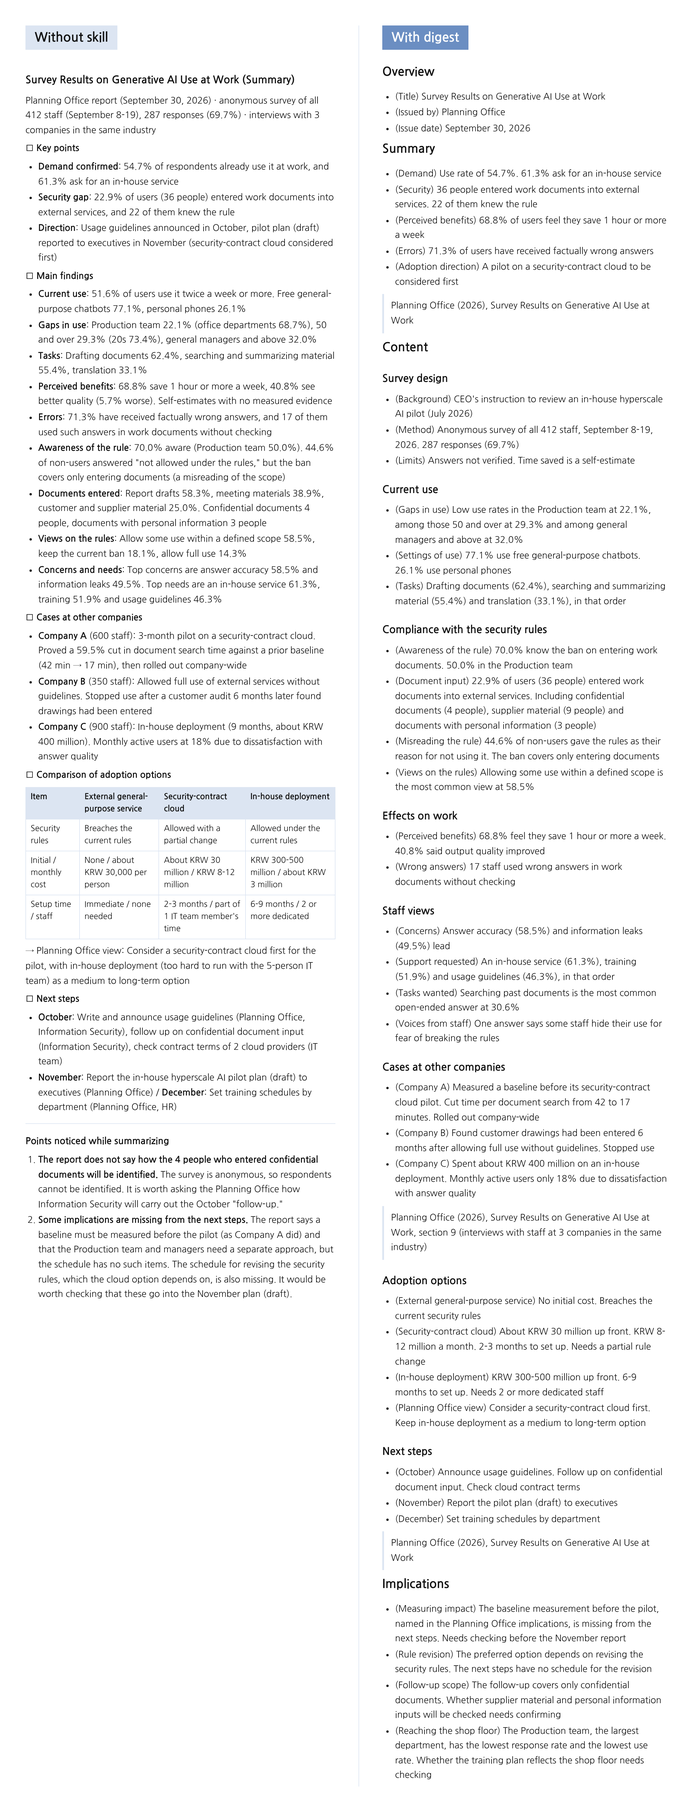
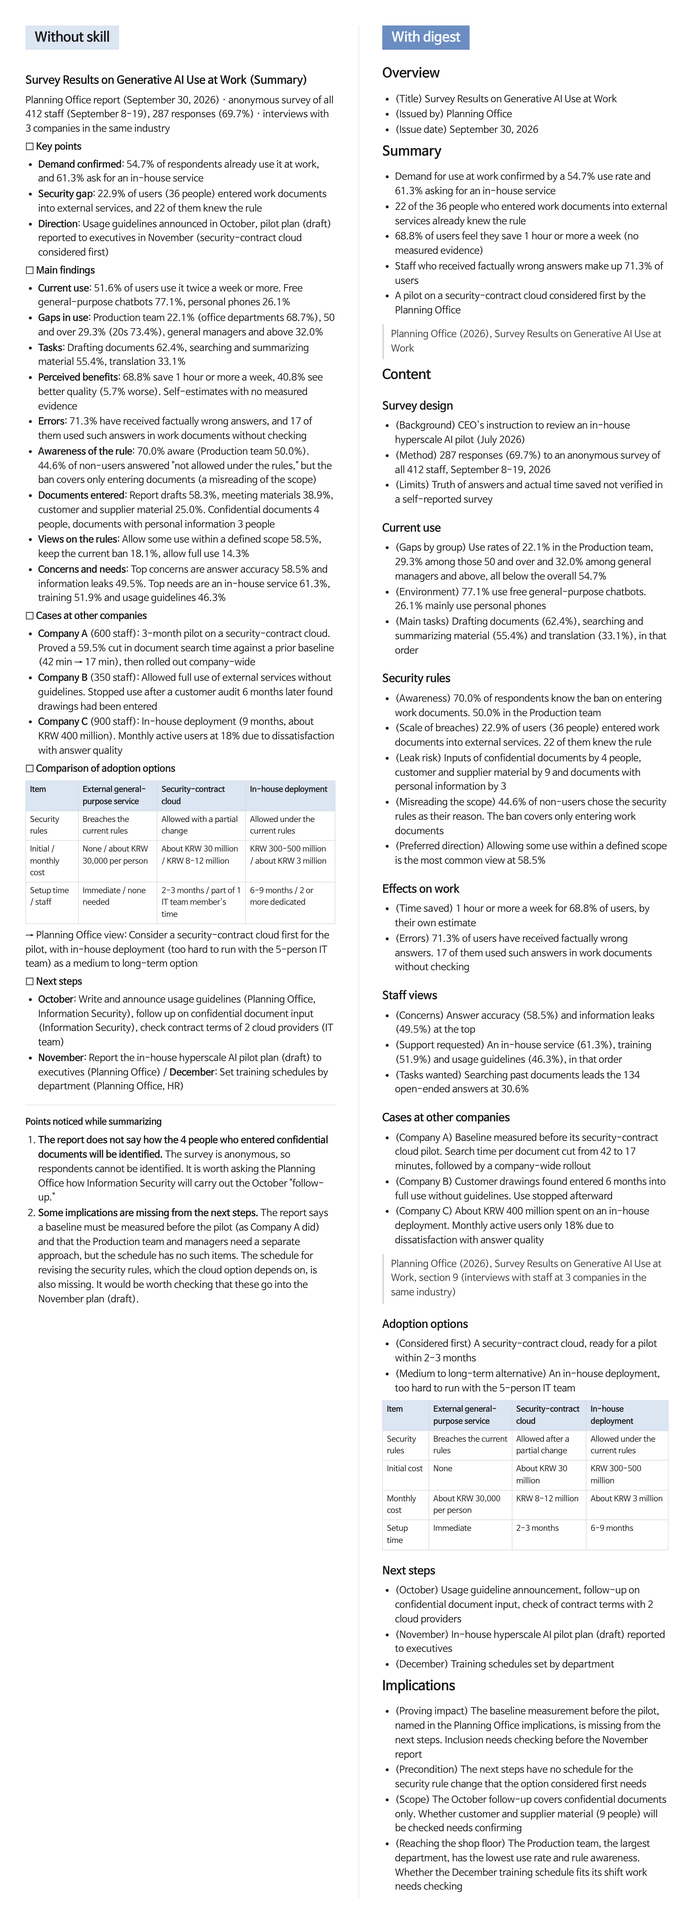
Put each speaker under one header in digest minutes and refresh the demo (#66)
- Add a header line to the meeting minutes template and a header column to the grouping table: speaker name for speaker grouping, used as needed for topic and time grouping.
- Change the speaker row labels to topic (level 1) and keyword (level 2) so that the speaker name appears once in its header.
- Add a minutes rule against duplicating header information in the labels and sentences below, and replace the speaker-only pre-delivery check item with one that covers every grouping.
- Align the Korean and English demo write-ups with the current writing style and re-render both compare.png images.
- Rebuild digest-ko.skill and digest-en.skill with the same packaging attributes and update SHA256SUMS.txt.

Claude-Session: https://claude.ai/code/session_019cp91uYdiyEsiZqNAUSQxG

Changed region(s): [[0.0312, 0.0, 0.5, 0.7162], [0.5312, 0.0, 0.9688, 0.9965]]

diff --git a/skills/digest/demo/en/after.md b/skills/digest/demo/en/after.md
@@ -4,63 +4,66 @@
 - (Issue date) September 30, 2026
 
 # Summary
-- (Demand) Use rate of 54.7%. 61.3% ask for an in-house service
-- (Security) 36 people entered work documents into external services. 22 of them knew the rule
-- (Perceived benefits) 68.8% of users feel they save 1 hour or more a week
-- (Errors) 71.3% of users have received factually wrong answers
-- (Adoption direction) A pilot on a security-contract cloud to be considered first
+- Demand for use at work confirmed by a 54.7% use rate and 61.3% asking for an in-house service
+- 22 of the 36 people who entered work documents into external services already knew the rule
+- 68.8% of users feel they save 1 hour or more a week (no measured evidence)
+- Staff who received factually wrong answers make up 71.3% of users
+- A pilot on a security-contract cloud considered first by the Planning Office
 
 > Planning Office (2026), Survey Results on Generative AI Use at Work
 
 # Content
 ## Survey design
 - (Background) CEO's instruction to review an in-house hyperscale AI pilot (July 2026)
-- (Method) Anonymous survey of all 412 staff, September 8-19, 2026. 287 responses (69.7%)
-- (Limits) Answers not verified. Time saved is a self-estimate
+- (Method) 287 responses (69.7%) to an anonymous survey of all 412 staff, September 8-19, 2026
+- (Limits) Truth of answers and actual time saved not verified in a self-reported survey
 
 ## Current use
-- (Gaps in use) Low use rates in the Production team at 22.1%, among those 50 and over at 29.3% and among general managers and above at 32.0%
-- (Settings of use) 77.1% use free general-purpose chatbots. 26.1% use personal phones
-- (Tasks) Drafting documents (62.4%), searching and summarizing material (55.4%) and translation (33.1%), in that order
+- (Gaps by group) Use rates of 22.1% in the Production team, 29.3% among those 50 and over and 32.0% among general managers and above, all below the overall 54.7%
+- (Environment) 77.1% use free general-purpose chatbots. 26.1% mainly use personal phones
+- (Main tasks) Drafting documents (62.4%), searching and summarizing material (55.4%) and translation (33.1%), in that order
 
-## Compliance with the security rules
-- (Awareness of the rule) 70.0% know the ban on entering work documents. 50.0% in the Production team
-- (Document input) 22.9% of users (36 people) entered work documents into external services. Including confidential documents (4 people), supplier material (9 people) and documents with personal information (3 people)
-- (Misreading the rule) 44.6% of non-users gave the rules as their reason for not using it. The ban covers only entering documents
-- (Views on the rules) Allowing some use within a defined scope is the most common view at 58.5%
+## Security rules
+- (Awareness) 70.0% of respondents know the ban on entering work documents. 50.0% in the Production team
+- (Scale of breaches) 22.9% of users (36 people) entered work documents into external services. 22 of them knew the rule
+- (Leak risk) Inputs of confidential documents by 4 people, customer and supplier material by 9 and documents with personal information by 3
+- (Misreading the scope) 44.6% of non-users chose the security rules as their reason. The ban covers only entering work documents
+- (Preferred direction) Allowing some use within a defined scope is the most common view at 58.5%
 
 ## Effects on work
-- (Perceived benefits) 68.8% feel they save 1 hour or more a week. 40.8% said output quality improved
-- (Wrong answers) 17 staff used wrong answers in work documents without checking
+- (Time saved) 1 hour or more a week for 68.8% of users, by their own estimate
+- (Errors) 71.3% of users have received factually wrong answers. 17 of them used such answers in work documents without checking
 
 ## Staff views
-- (Concerns) Answer accuracy (58.5%) and information leaks (49.5%) lead
+- (Concerns) Answer accuracy (58.5%) and information leaks (49.5%) at the top
 - (Support requested) An in-house service (61.3%), training (51.9%) and usage guidelines (46.3%), in that order
-- (Tasks wanted) Searching past documents is the most common open-ended answer at 30.6%
-- (Voices from staff) One answer says some staff hide their use for fear of breaking the rules
+- (Tasks wanted) Searching past documents leads the 134 open-ended answers at 30.6%
 
 ## Cases at other companies
-- (Company A) Measured a baseline before its security-contract cloud pilot. Cut time per document search from 42 to 17 minutes. Rolled out company-wide
-- (Company B) Found customer drawings had been entered 6 months after allowing full use without guidelines. Stopped use
-- (Company C) Spent about KRW 400 million on an in-house deployment. Monthly active users only 18% due to dissatisfaction with answer quality
+- (Company A) Baseline measured before its security-contract cloud pilot. Search time per document cut from 42 to 17 minutes, followed by a company-wide rollout
+- (Company B) Customer drawings found entered 6 months into full use without guidelines. Use stopped afterward
+- (Company C) About KRW 400 million spent on an in-house deployment. Monthly active users only 18% due to dissatisfaction with answer quality
 
 > Planning Office (2026), Survey Results on Generative AI Use at Work, section 9 (interviews with staff at 3 companies in the same industry)
 
 ## Adoption options
-- (External general-purpose service) No initial cost. Breaches the current security rules
-- (Security-contract cloud) About KRW 30 million up front. KRW 8-12 million a month. 2-3 months to set up. Needs a partial rule change
-- (In-house deployment) KRW 300-500 million up front. 6-9 months to set up. Needs 2 or more dedicated staff
-- (Planning Office view) Consider a security-contract cloud first. Keep in-house deployment as a medium to long-term option
+- (Considered first) A security-contract cloud, ready for a pilot within 2-3 months
+- (Medium to long-term alternative) An in-house deployment, too hard to run with the 5-person IT team
+
+| Item | External general-purpose service | Security-contract cloud | In-house deployment |
+|---|---|---|---|
+| Security rules | Breaches the current rules | Allowed after a partial change | Allowed under the current rules |
+| Initial cost | None | About KRW 30 million | KRW 300-500 million |
+| Monthly cost | About KRW 30,000 per person | KRW 8-12 million | About KRW 3 million |
+| Setup time | Immediate | 2-3 months | 6-9 months |
 
 ## Next steps
-- (October) Announce usage guidelines. Follow up on confidential document input. Check cloud contract terms
-- (November) Report the pilot plan (draft) to executives
-- (December) Set training schedules by department
-
-> Planning Office (2026), Survey Results on Generative AI Use at Work
+- (October) Usage guideline announcement, follow-up on confidential document input, check of contract terms with 2 cloud providers
+- (November) In-house hyperscale AI pilot plan (draft) reported to executives
+- (December) Training schedules set by department
 
 # Implications
-- (Measuring impact) The baseline measurement before the pilot, named in the Planning Office implications, is missing from the next steps. Needs checking before the November report
-- (Rule revision) The preferred option depends on revising the security rules. The next steps have no schedule for the revision
-- (Follow-up scope) The follow-up covers only confidential documents. Whether supplier material and personal information inputs will be checked needs confirming
-- (Reaching the shop floor) The Production team, the largest department, has the lowest response rate and the lowest use rate. Whether the training plan reflects the shop floor needs checking
+- (Proving impact) The baseline measurement before the pilot, named in the Planning Office implications, is missing from the next steps. Inclusion needs checking before the November report
+- (Precondition) The next steps have no schedule for the security rule change that the option considered first needs
+- (Scope) The October follow-up covers confidential documents only. Whether customer and supplier material (9 people) will be checked needs confirming
+- (Reaching the shop floor) The Production team, the largest department, has the lowest use rate and rule awareness. Whether the December training schedule fits its shift work needs checking

diff --git a/skills/digest/demo/ko/after.md b/skills/digest/demo/ko/after.md
@@ -4,63 +4,66 @@
 - (발행일) 2026년 9월 30일
 
 # 요약
-- (수요) 사용 경험률 54.7%. 사내 전용 서비스 요구 61.3%
-- (보안) 업무 문서 외부 입력 36명. 이 중 22명은 규정을 알고도 입력
-- (체감 효과) 사용 경험자의 68.8%가 주 1시간 이상 절감 체감
-- (오류) 사용 경험자의 71.3%가 사실과 다른 답변 경험
-- (도입 방향) 보안 계약형 클라우드 방식의 시범 도입 우선 검토
+- 사용 경험률 54.7% 및 사내 전용 서비스 요구 61.3%로 업무 활용 수요 확인
+- 업무 문서를 외부 서비스에 입력한 36명 중 22명은 규정을 알고 있던 직원
+- 사용 경험자의 68.8%가 주 1시간 이상 업무 시간 절감 체감(실측 근거 없음)
+- 사실과 다른 답변을 받은 직원은 사용 경험자의 71.3%
+- 기획실은 보안 계약형 클라우드 방식의 시범 도입을 우선 검토
 
 > 기획실(2026), 생성형 AI 업무 활용 실태 조사 결과 보고
 
 # 내용
 ## 조사 설계
 - (배경) 대표이사의 사내 초거대AI 시범 도입 검토 지시(2026년 7월)
-- (방법) 2026년 9월 8일-19일 전 직원 412명 대상 무기명 설문. 287명 응답(69.7%)
-- (한계) 응답의 사실 여부 미확인. 절감 시간은 본인 체감치
+- (방법) 2026년 9월 8일-19일 전 직원 412명 대상 무기명 설문에 287명 응답(69.7%)
+- (한계) 자기 기입식 조사로 응답 내용의 사실 여부 및 절감 시간의 실측값 미확인
 
-## 사용 실태
-- (사용 격차) 생산팀 22.1%, 50대 이상 29.3%, 부장 이상 32.0%로 사용 경험률 저조
-- (사용 환경) 무료 범용 챗봇 사용 77.1%. 개인 휴대폰 사용 26.1%
-- (활용 업무) 문서 초안 작성(62.4%), 자료 검색 및 요약(55.4%), 번역(33.1%) 순
+## 활용 현황
+- (집단별 격차) 사용 경험률은 생산팀 22.1%, 50대 이상 29.3%, 부장 이상 32.0%로 전체 54.7%보다 저조
+- (사용 환경) 무료 범용 챗봇 이용 77.1%. 개인 휴대폰 위주 이용 26.1%
+- (주요 업무) 문서 초안 작성(62.4%), 자료 검색 및 요약(55.4%), 번역(33.1%) 순
 
-## 보안 규정 준수
-- (규정 인지) 업무 문서 입력 금지 규정 인지율 70.0%. 생산팀은 50.0%
-- (입력 실태) 사용 경험자의 22.9%(36명)가 외부 서비스에 업무 문서 입력. 기밀 문서(4명), 거래처 자료(9명), 개인정보 문서(3명) 포함
-- (규정 오해) 미사용자의 44.6%가 규정을 미사용 이유로 응답. 금지 대상은 문서 입력에 한정
-- (규정 의견) 범위를 정한 일부 허용 의견 58.5%로 최다
+## 보안 규정
+- (인지 수준) 업무 문서 입력 금지 규정을 아는 응답자 70.0%. 생산팀은 50.0%
+- (위반 규모) 사용 경험자의 22.9%(36명)가 외부 서비스에 업무 문서 입력. 이 중 22명은 규정 인지 상태
+- (유출 위험) 기밀 등급 문서 4명, 고객 및 거래처 자료 9명, 개인정보 포함 문서 3명의 입력 사례
+- (범위 오해) 미사용자의 44.6%가 보안 규정을 이유로 선택. 금지 대상은 업무 문서 입력뿐
+- (선호 방향) 범위를 정한 일부 허용 의견이 58.5%로 최다
 
 ## 업무 영향
-- (체감 효과) 주 1시간 이상 절감 체감 68.8%. 결과물 품질 개선 응답 40.8%
-- (답변 오류) 틀린 답변을 확인 없이 업무 문서에 사용한 직원 17명
+- (절감 효과) 사용 경험자의 68.8%가 주 1시간 이상 체감
+- (오류) 사용 경험자의 71.3%가 사실과 다른 답변 경험. 이 중 17명은 확인 없이 업무 문서에 사용
 
 ## 직원 의견
-- (우려) 답변 정확성(58.5%)과 정보 유출(49.5%)이 상위
+- (우려 사항) 답변 정확성(58.5%) 및 정보 유출(49.5%)이 상위 항목
 - (지원 요구) 사내 전용 서비스(61.3%), 활용 교육(51.9%), 사용 지침(46.3%) 순
-- (희망 업무) 주관식 응답 중 과거 문서 검색이 30.6%로 최다
-- (현장 목소리) 규정 위반 우려로 사용 사실을 숨기는 직원이 있다는 응답
+- (희망 업무) 주관식 응답 134건 중 과거 문서 검색이 30.6%로 최다
 
 ## 타사 사례
-- (A사) 보안 계약형 클라우드 시범 전 기준값 실측. 문서 검색 건당 42분에서 17분으로 단축. 전사 확대
-- (B사) 지침 없는 전면 허용 6개월 만에 고객사 도면 입력 적발. 사용 중단
+- (A사) 보안 계약형 클라우드 시범 전 기준값 실측. 건당 문서 검색 시간 단축(42분에서 17분) 입증 후 전사 확대
+- (B사) 지침 없는 전면 허용 6개월 만에 고객사 도면 입력 적발로 사용 중단
 - (C사) 사내 설치형 구축에 약 4억 원 투입. 답변 품질 불만으로 월간 활성 사용자 18%에 그침
 
 > 기획실(2026), 생성형 AI 업무 활용 실태 조사 결과 보고 9장(동종 업계 3개사 담당자 면담)
 
 ## 도입 방식
-- (외부 범용 서비스) 초기 비용 없음. 현행 보안 규정 위반
-- (보안 계약형 클라우드) 초기 3,000만 원 내외. 월 800만-1,200만 원. 구축 2-3개월. 규정 일부 개정 필요
-- (사내 설치형) 초기 3억-5억 원. 구축 6-9개월. 전담 인력 2명 이상 필요
-- (기획실 판단) 보안 계약형 클라우드 우선 검토. 사내 설치형은 중장기 대안
+- (우선 검토안) 2-3개월 안에 시범 착수가 가능한 보안 계약형 클라우드
+- (중장기 대안) IT팀 5명으로 운영이 어려운 사내 설치형
+
+| 구분 | 외부 범용 서비스 | 보안 계약형 클라우드 | 사내 설치형 |
+|---|---|---|---|
+| 보안 규정 | 현행 규정 위반 | 일부 개정 시 허용 | 현행 규정 내 허용 |
+| 초기 비용 | 없음 | 3,000만 원 내외 | 3억-5억 원 |
+| 월 비용 | 1인당 3만 원 내외 | 800만-1,200만 원 | 300만 원 내외 |
+| 구축 기간 | 즉시 | 2-3개월 | 6-9개월 |
 
 ## 향후 계획
-- (10월) 사용 지침 공지. 기밀 문서 입력 후속 확인. 클라우드 계약 조건 확인
-- (11월) 시범 도입 계획(안) 경영진 보고
+- (10월) 사용 지침 공지, 기밀 등급 문서 입력 후속 확인, 클라우드 2개사 계약 조건 확인
+- (11월) 사내 초거대AI 시범 도입 계획(안) 경영진 보고
 - (12월) 부서별 활용 교육 일정 수립
 
-> 기획실(2026), 생성형 AI 업무 활용 실태 조사 결과 보고
-
 # 시사점
-- (효과 측정) 기획실 시사점의 시범 전 기준값 측정이 향후 계획에 없음. 11월 보고 전 확인 필요
-- (규정 개정) 우선 검토안은 보안 규정 개정이 전제. 향후 계획에 개정 일정 없음
-- (후속 점검) 후속 확인 대상은 기밀 문서에 한정. 거래처 자료와 개인정보 입력 건 점검 여부 확인 필요
-- (현장 반영) 최다 인원 부서인 생산팀의 응답률과 사용 경험률 모두 최저. 교육 계획의 현장 반영 확인 필요
+- (성과 입증) 기획실 시사점의 시범 전 기준값 측정이 향후 계획에서 누락. 11월 보고 전 반영 여부 확인 필요
+- (선행 조건) 우선 검토안에 필요한 보안 규정 개정 일정이 향후 계획에 미포함
+- (대상 범위) 10월 후속 확인은 기밀 등급 문서에 국한. 고객 및 거래처 자료(9명)의 점검 여부 확인 필요
+- (현장 접근) 최다 인원 부서인 생산팀의 사용 경험률 및 규정 인지율이 모두 최저. 12월 교육 일정에 교대 근무 여건 반영 여부 확인 필요

diff --git a/skills/digest/ko/digest/SKILL.md b/skills/digest/ko/digest/SKILL.md
@@ -249,6 +249,7 @@ python scripts/extract.py --clean
 - (참석자) 이름, 이름, 이름
 
 # 회의 내용
+## 헤더(발언자 기준은 발언자 이름, 그 밖의 기준은 세분화가 필요한 경우 사용)
 - (1단계 소제목) 주장
     + 주장의 근거
     + (2단계 소제목, 구조화가 필요한 경우) 주장의 근거
@@ -257,11 +258,11 @@ python scripts/extract.py --clean
 - (실행자) 후속 조치
 ```
 
-| 기준 | 1단계 소제목 | 2단계 소제목 | 묶는 방법 |
-|---|---|---|---|
-| 발언자 | 발언자 이름 | 주제 | 발언자별로 묶는다. 이름은 사용자가 제공한 이름이나 녹취록 표기를 사용한다. 발언자별 주장 묶음은 한 번만 작성하고 여러 위치에 나누어 작성하지 않는다 |
-| 주제 | 주제 | 키워드 | 유사한 주장을 한 주제로 묶는다. 주제 간 중복 및 논의 누락이 없도록 나눈다 |
-| 시간 | 주제 | 키워드 | 논의가 진행된 시간 순서로 작성한다. 시각 정보가 없으면 발언 순서를 따른다. 논의 순서를 보존하기 위해 발언자별로 묶지 않는다 |
+| 기준 | 헤더(##) | 1단계 소제목 | 2단계 소제목 | 묶는 방법 |
+|---|---|---|---|---|
+| 발언자 | 발언자 이름 | 주제 | 키워드 | 발언자마다 `##` 헤더를 한 번만 작성한다. 해당 발언자의 주장은 모두 그 헤더 아래에 둔다. 헤더에는 사용자가 제공한 이름이나 녹취록 표기를 사용한다 |
+| 주제 | 필요 시 사용 | 주제 | 키워드 | 유사한 주장을 한 주제로 묶는다. 주제 간 중복 및 논의 누락이 없도록 나눈다 |
+| 시간 | 필요 시 사용 | 주제 | 키워드 | 논의가 진행된 시간 순서로 작성한다. 시각 정보가 없으면 발언 순서를 따른다. 논의 순서를 보존하기 위해 발언자별로 묶지 않는다 |
 
 - 회의목적은 녹취록 내용을 바탕으로 간결하고 명확한 1줄 단문으로 작성한다.
 - 회의일시의 기본 형식은 24시간제 `YYYY-MM-DD HH:MM-HH:MM`이다(예: 2026-03-05 14:00-15:30). 사용자 지역의 날짜 및 시각 표기 관례가 다르면 그 관례를 따른다(예: 미국 사용자는 03/05/2026 2:00-3:30 PM). 시각은 사용자의 현지 시간대를 기준으로 한다.
@@ -269,6 +270,7 @@ python scripts/extract.py --clean
 - 향후 계획은 3-5줄로 작성한다. 녹취록에 언급된 항목이 3개 미만이면 언급된 항목만 작성한다.
 - 향후 계획의 각 줄은 실행자의 후속 조치를 한 문장으로 작성한다. 문장에는 녹취록에 언급된 기한, 결과물 수령자, 결과물을 담는다(예: "(김민수 과장) 11월 20일까지 경영진에 시범 도입 계획(안) 보고", "(박지영 대리) 다음 주 금요일까지 정보보안팀에 거래처 자료 점검 결과 공유" 등).
 - 1단계 줄은 들여쓰지 않는다. 2단계 줄은 들여쓴다.
+- 헤더에 쓴 정보(예: 발언자 이름, 안건 등)를 그 아래의 소제목과 문장에 중복하여 쓰지 않는다.
 - 2단계 소제목은 근거를 구조화할 필요가 있는 경우에 사용한다(예: 여러 개의 카테고리가 필요한 경우, 복잡한 개념을 표현해야 하는 경우 등).
 - 모든 1단계 주장에는 녹취록에 있는 근거를 2단계로 제시한다.
 
@@ -366,6 +368,7 @@ python scripts/extract.py --clean
 - 잘린 자료가 있다면 사용자에게 알렸는가
 - 회의록 작성 전에 확인되지 않은 회의명, 회의일시, 참석자를 사용자에게 물었는가
 - 회의록의 주장마다 근거가 제시되어 있는가
+- 회의록 헤더가 정리 기준별 사용 방법에 맞고 헤더의 정보가 그 아래 소제목과 문장에서 중복되지 않는가
 - 향후 계획의 각 줄이 녹취록에 언급된 기한, 결과물 수령자, 결과물을 담은 문장인가
 - 번역본에 누락된 문단이 없는가
 - 헤더, 소제목, 불릿이 한 가지 기준에 따라 중복 및 누락 없이 분류되었는가

diff --git a/skills/digest/en/digest/SKILL.md b/skills/digest/en/digest/SKILL.md
@@ -251,6 +251,7 @@ Before you start writing, check whether the meeting name, date and time, and att
 - (Attendees) Name, Name, Name
 
 # Discussion
+## Header (speaker name for speaker grouping, used for other groupings when a breakdown helps)
 - (Level-1 label) Claim
     + Evidence for the claim
     + (Level-2 label, when the evidence needs structuring) Evidence for the claim
@@ -259,11 +260,11 @@ Before you start writing, check whether the meeting name, date and time, and att
 - (Owner) Action item
 ```
 
-| Grouping | Level-1 label | Level-2 label | How to group |
-|---|---|---|---|
-| Speaker | Speaker name | Topic | Group by speaker, using the names the user gave or the transcript labels. Write each speaker's claims as one block, never split across places |
-| Topic | Topic | Keyword | Group similar claims under one topic. Topics must not overlap, and no discussion may be left out |
-| Time | Topic | Keyword | Follow the order in which the discussion happened. Without time data, follow the order of remarks. Do not group by speaker, so the order of discussion stays intact |
+| Grouping | Header (##) | Level-1 label | Level-2 label | How to group |
+|---|---|---|---|---|
+| Speaker | Speaker name | Topic | Keyword | Write one `##` header per speaker. Put all of that speaker's claims under that header. Use the name the user gave or the transcript label in the header |
+| Topic | As needed | Topic | Keyword | Group similar claims under one topic. Topics must not overlap, and no discussion may be left out |
+| Time | As needed | Topic | Keyword | Follow the order in which the discussion happened. Without time data, follow the order of remarks. Do not group by speaker, so the order of discussion stays intact |
 
 - Write the purpose from the transcript as one concise, clear simple sentence with a single subject and predicate.
 - The default format for the date and time is `YYYY-MM-DD HH:MM-HH:MM` on a 24-hour clock (for example 2026-03-05 14:00-15:30). If the user's region writes dates and times differently, follow that convention (for example 03/05/2026 2:00-3:30 PM for a user in the United States). Use the user's local time zone for the times.
@@ -271,6 +272,7 @@ Before you start writing, check whether the meeting name, date and time, and att
 - Write three to five lines for the next steps. If the transcript has fewer than three items, write only those.
 - Write each next-step line as one sentence that states the owner's action item. Include the deadline, the deliverable's recipient, and the deliverable mentioned in the transcript (for example "(Minsu Kim) Pilot rollout plan draft to be reported to the executives by November 20", "(Jiyoung Park) Vendor data check results to be shared with the security team by next Friday", and similar lines).
 - Do not indent level-1 lines. Indent level-2 lines.
+- Do not duplicate the information in a header (for example a speaker name, an agenda item, and so on) in the labels or sentences under it.
 - Use a level-2 label in cases where the evidence needs structuring (for example, when the evidence falls into several categories, expresses a complex concept, and so on).
 - Attach evidence from the transcript as level 2 under every level-1 claim.
 
@@ -367,6 +369,7 @@ These rules apply to all write-ups and to the overview and summary of an essay t
 - If any input was truncated, was the user told?
 - Before writing minutes, were the unconfirmed meeting name, date and time, and attendees asked about?
 - Does every claim in the minutes carry evidence?
+- Is each header in the minutes used as its grouping specifies, with its information not duplicated in the labels or sentences under it?
 - Is each next-step line a sentence with the deadline, the deliverable's recipient, and the deliverable mentioned in the transcript?
 - Is no paragraph missing from the translation?
 - Are headings, labels, and bullets classified by one criterion without overlap or omission?
